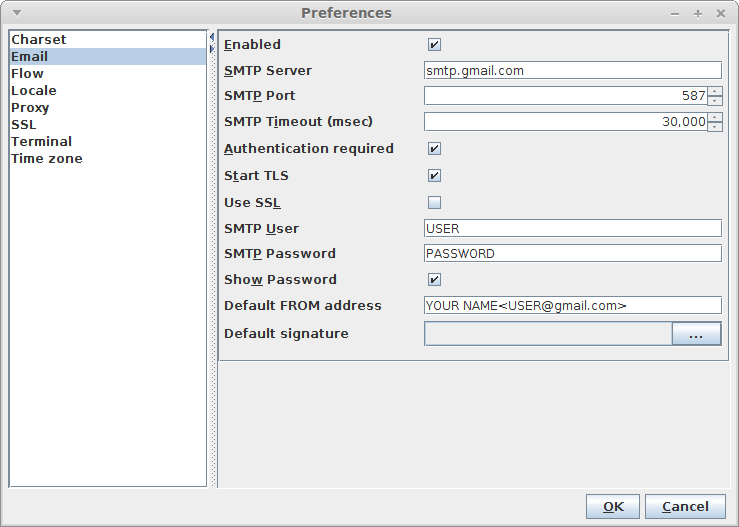
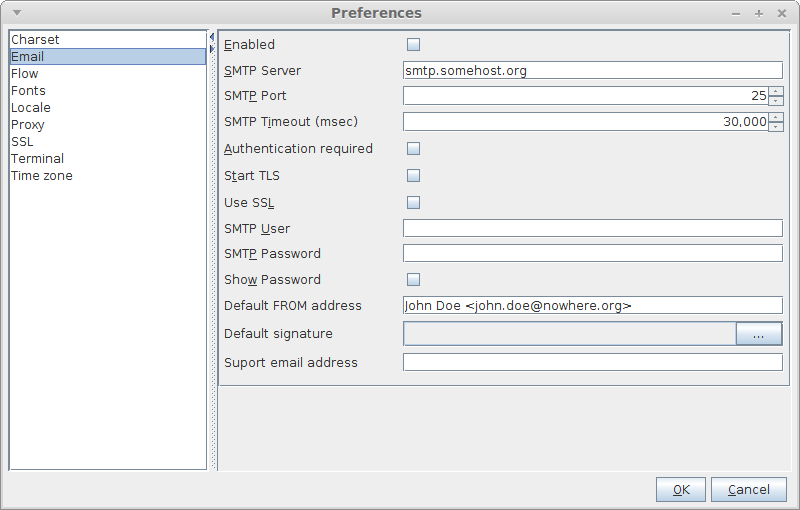
added info on support email

diff --git a/adams-net/src/main/latex/adams-net-manual/adams-net-manual.tex b/adams-net/src/main/latex/adams-net-manual/adams-net-manual.tex
@@ -45,7 +45,7 @@
 \center
 \begin{table}[b]
 	\begin{tabular}{c l l}
-		\parbox[c][2cm]{2cm}{\copyright 2012-2015} &
+		\parbox[c][2cm]{2cm}{\copyright 2012-2016} &
 		\parbox[c][2cm]{5cm}{\includegraphics[width=5cm]{images/coat_of_arms.pdf}} \\
 	\end{tabular}
 	\includegraphics[width=12cm]{images/cc.png} \\
@@ -170,6 +170,18 @@ After a file got sucessfully loaded and sent, it gets (by default) the
 extension is used (by default).
 Use the \textit{-h} or \textit{-help} option on the command-line to list all 
 the available options.
+
+\section{Support email}
+In order to make it easier for users or clients, you can set up a
+\textit{support email}, which makes it easy to send through error reports.
+These error reports get the \textit{system info} and current content
+of the \textit{console window} automatically attached.
+
+To enable this feature, configure the email setup through the preferences
+and fill in a \textit{Support email address}. After the application has
+been restarted, you get a \textit{Send error report} menu item in the
+\textit{Program} menu.
+
 
 %%%%%%%
 % FTP %
